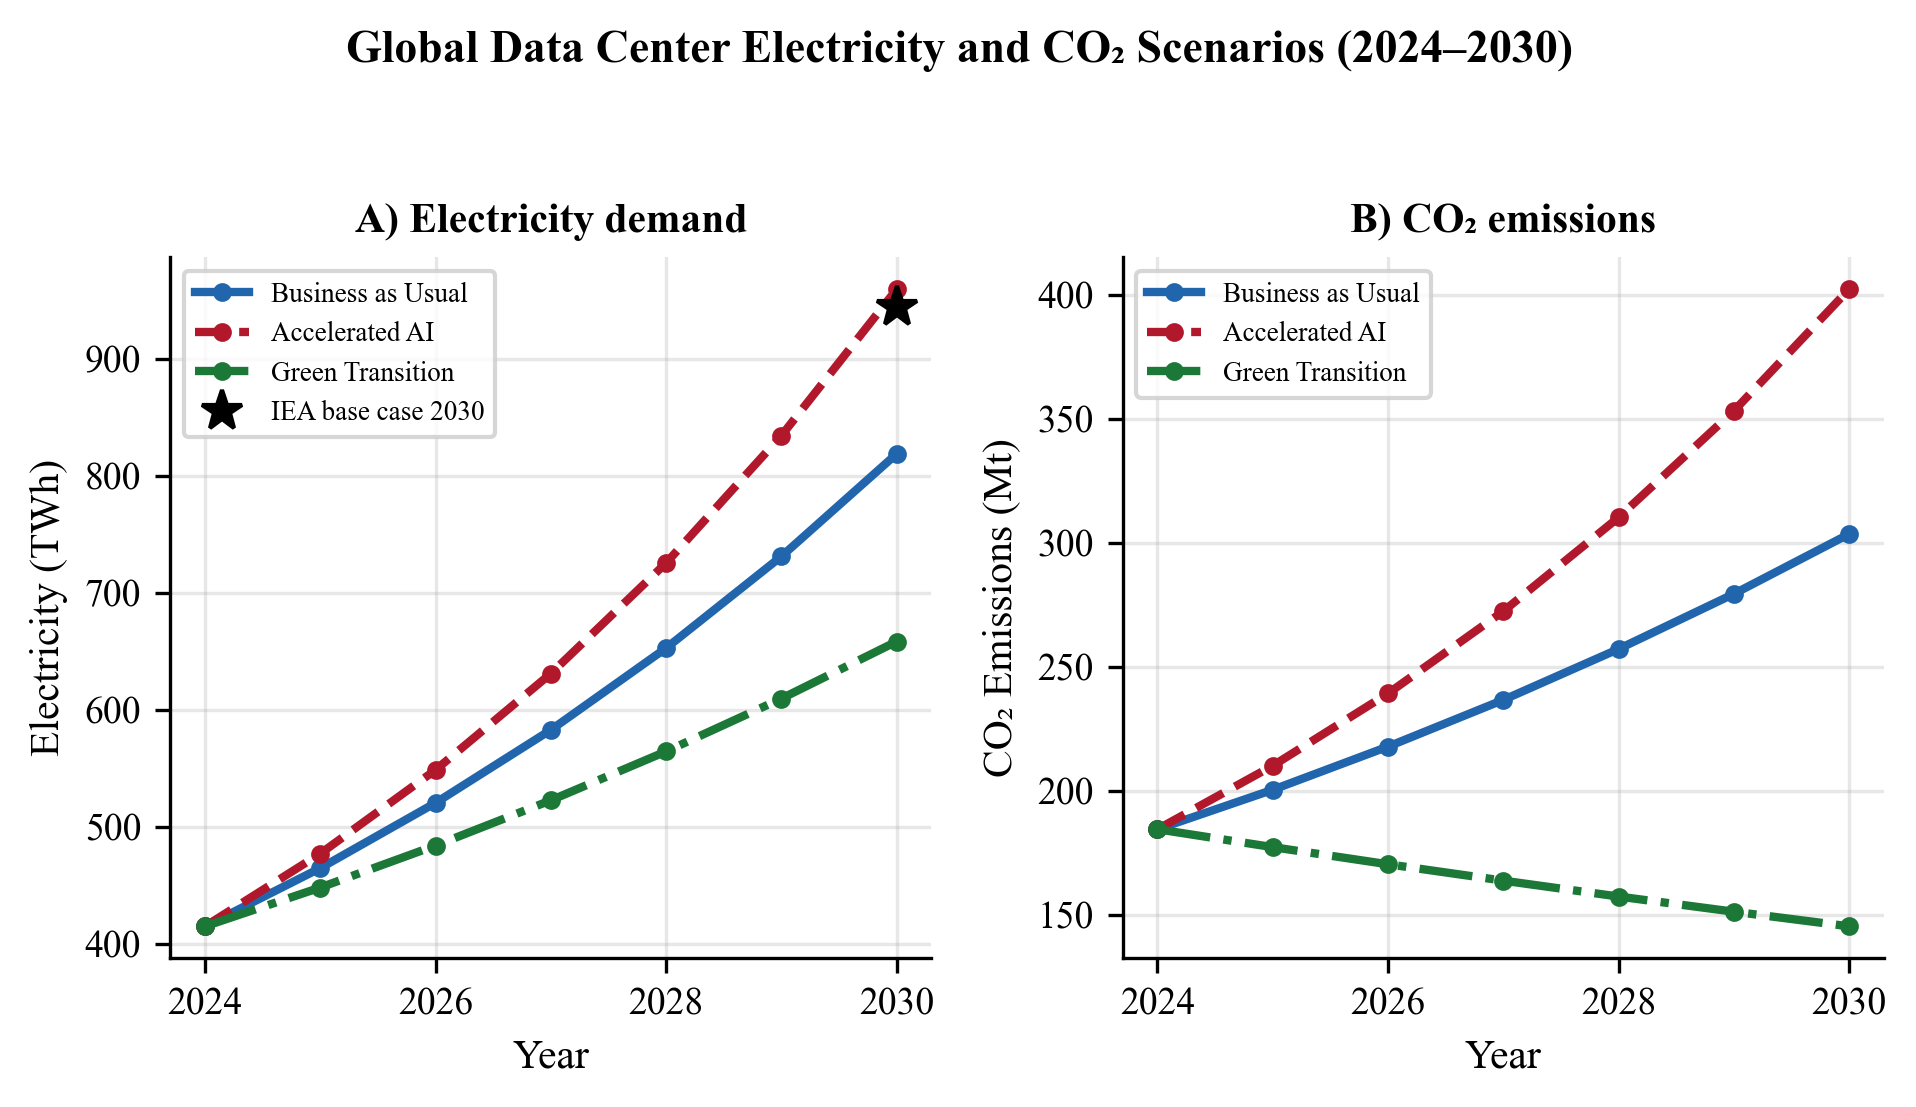
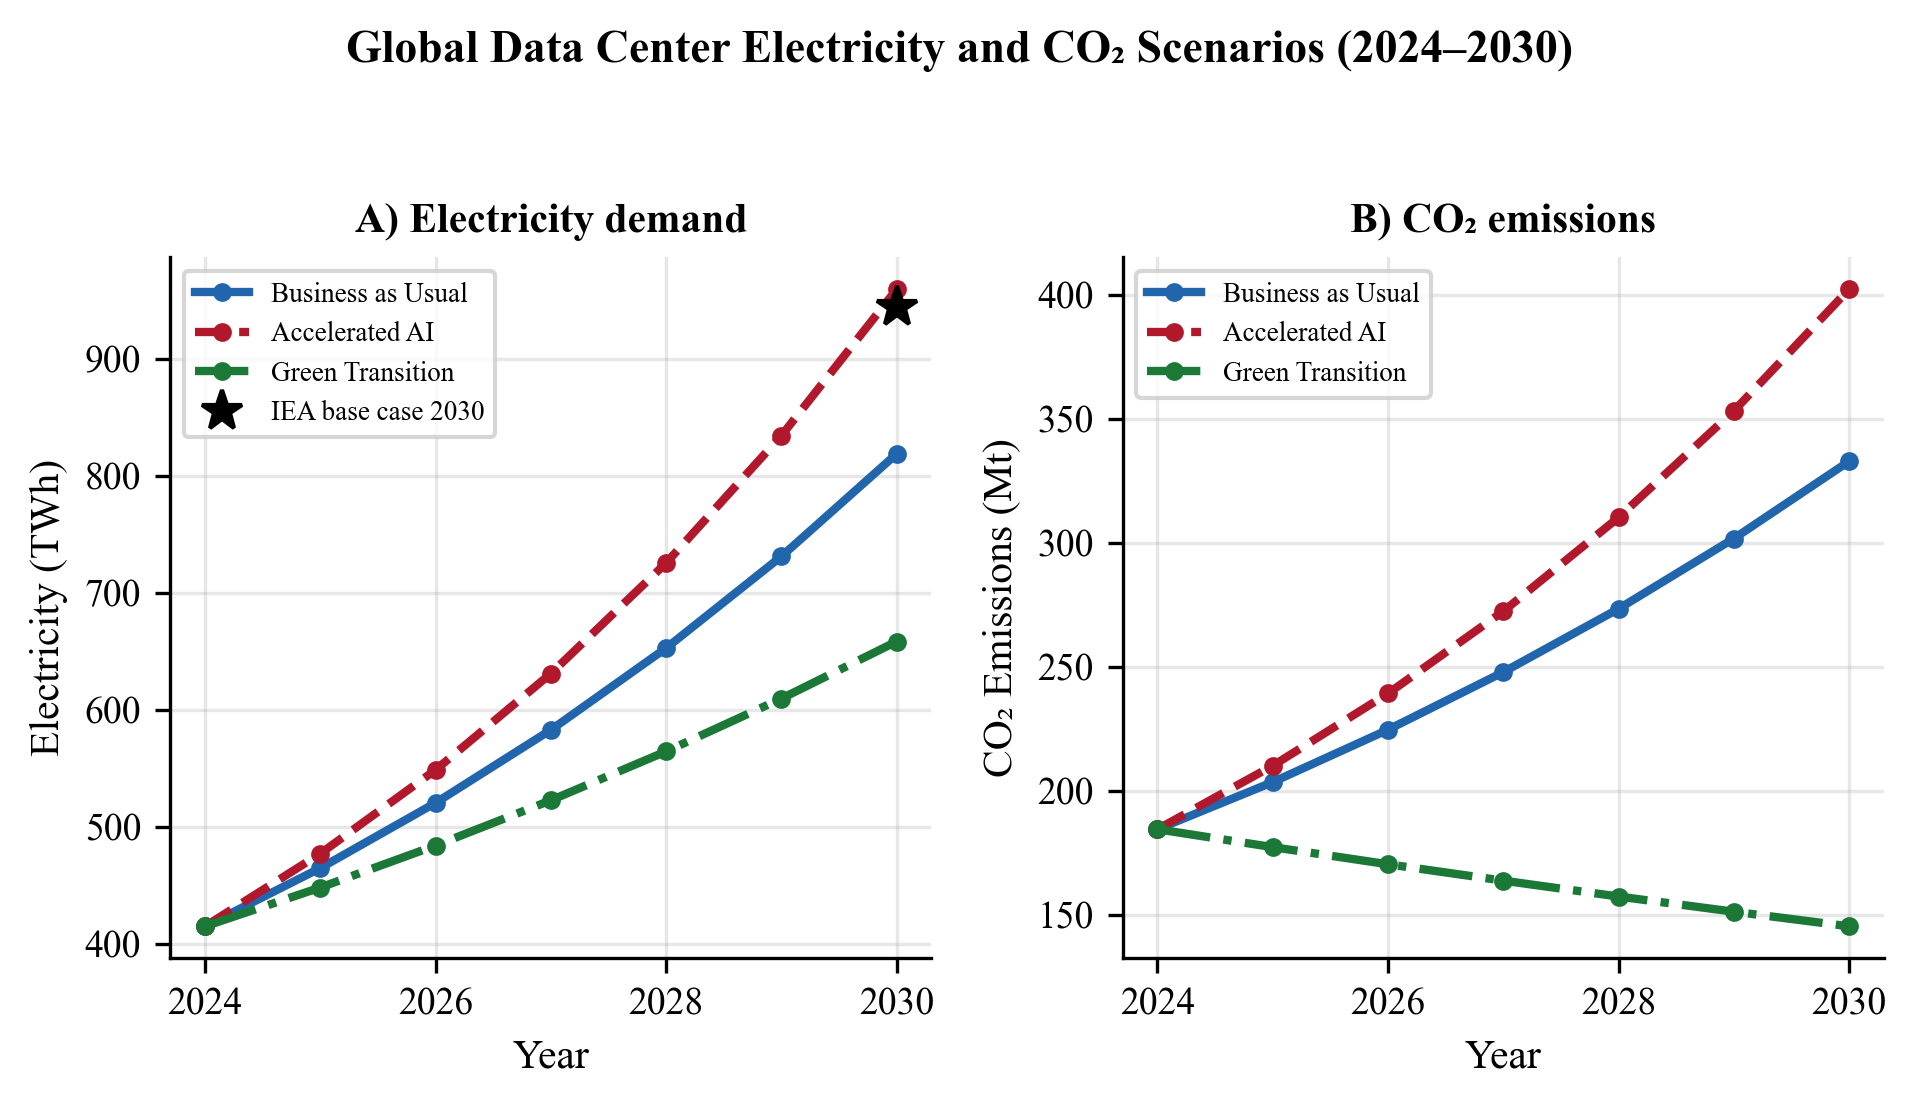
Business as Usual: use historical grid decarbonization rate (1.5%/yr)
Set the BAU emission-factor decline to the 2015-2025 decline in world grid
carbon intensity (Ember via Our World in Data, 533 -> 458 g/kWh, 1.51%/yr).
Add the data file, compute the benchmark in 03_projections.py, and write a
scenario assumptions table. BAU 2030 emissions: 304 -> 333 Mt CO2.

diff --git a/03_projections.py b/03_projections.py
@@ -27,8 +27,17 @@ sys.path.insert(0, os.path.dirname(__file__))
 from config import (
     MERGED_CSV, RESULTS_FILE, TABLE_DIR, BASE_YEAR, END_YEAR, BASE_TWH, BASE_EMISSION_FACTOR,
     IEA_BASE_CASE_2030_TWH, SCENARIOS, SENS_BASE_EF, SENS_GROWTH_DELTA,
-    US_GRID_EMISSION_FACTOR, ensure_dirs,
+    US_GRID_EMISSION_FACTOR, HIST_GRID_FILE, HIST_START, HIST_END, ensure_dirs,
 )
+
+
+def historical_decline():
+    """Compound annual change in world grid carbon intensity between HIST_START and HIST_END."""
+    h = pd.read_csv(HIST_GRID_FILE).set_index("year").iloc[:, 0]
+    a, b = h.loc[HIST_START], h.loc[HIST_END]
+    rate = 1 - (b / a) ** (1 / (HIST_END - HIST_START))
+    return {"start_year": HIST_START, "end_year": HIST_END, "start_g_per_kwh": float(a),
+            "end_g_per_kwh": float(b), "annual_decline": round(float(rate), 4)}
 
 
 def project(growth, ef_decline, base_twh=BASE_TWH, base_ef=BASE_EMISSION_FACTOR):
@@ -51,6 +60,10 @@ def main():
     print(f"2024 baseline: {BASE_TWH} TWh x {BASE_EMISSION_FACTOR} kg/kWh = {base_co2:.1f} Mt CO2")
     iea_cagr = (IEA_BASE_CASE_2030_TWH / BASE_TWH) ** (1 / (END_YEAR - BASE_YEAR)) - 1
     print(f"Growth rate implied by the IEA base case ({IEA_BASE_CASE_2030_TWH} TWh in 2030): {iea_cagr:.1%}/yr")
+    hist = historical_decline()
+    print(f"World grid carbon intensity {HIST_START}-{HIST_END}: {hist['start_g_per_kwh']:.0f} -> "
+          f"{hist['end_g_per_kwh']:.0f} g/kWh, {hist['annual_decline']:.2%}/yr decline "
+          f"(Business as Usual uses {SCENARIOS['business_as_usual']['ef_decline']:.1%})")
 
     tables, projections = [], {}
     for key, s in SCENARIOS.items():
@@ -69,12 +82,23 @@ def main():
             "ef_2030_reduction_vs_2024_pct": round(100 * (1 - last["ef_kg_per_kwh"] / BASE_EMISSION_FACTOR), 1),
             "co2_2030_change_vs_2024_pct": round(100 * (last["co2_mt"] / base_co2 - 1), 1),
         }
-        print(f"\n  {s['label']} (growth {s['growth']:.0%}/yr, EF decline {s['ef_decline']:.0%}/yr)")
+        print(f"\n  {s['label']} (growth {s['growth']:.0%}/yr, EF decline {s['ef_decline']:.1%}/yr)")
         for _, r in p.iterrows():
             print(f"    {int(r.year)}: {r.twh:7.1f} TWh  x {r.ef_kg_per_kwh:.4f} kg/kWh = {r.co2_mt:6.1f} Mt CO2")
 
     by_year = pd.concat(tables)
     by_year.round(4).to_csv(os.path.join(TABLE_DIR, "projections_by_year.csv"), index=False)
+
+    # Scenario assumptions table (paper Table 1)
+    assumptions = pd.DataFrame([{
+        "scenario": s["label"], "assumption": s["description"],
+        "growth_pct_per_yr": round(100 * s["growth"], 1), "ef_decline_pct_per_yr": round(100 * s["ef_decline"], 1),
+        "ef_2030_kg_per_kwh": round(projections[k]["ef_kg_per_kwh"][-1], 3),
+        "twh_2030": round(projections[k]["twh"][-1]), "co2_2030_mt": round(projections[k]["co2_mt"][-1]),
+    } for k, s in SCENARIOS.items()])
+    assumptions.to_csv(os.path.join(TABLE_DIR, "scenario_assumptions.csv"), index=False)
+    print("\nScenario assumptions:")
+    print(assumptions.to_string(index=False))
 
     # Sensitivity of 2030 emissions to the baseline EF and growth rate
     sens = []
@@ -104,6 +128,7 @@ def main():
     with open(RESULTS_FILE) as f:
         results = json.load(f)
     results["projections"] = projections
+    results["historical_grid_intensity"] = hist
     results["projection_baseline"] = {
         "base_year": BASE_YEAR, "base_twh": BASE_TWH, "base_ef_kg_per_kwh": BASE_EMISSION_FACTOR,
         "base_co2_mt": round(base_co2, 1),

diff --git a/config.py b/config.py
@@ -65,19 +65,26 @@ IEA_BASE_CASE_2030_TWH = 945
 
 # Each scenario = annual electricity growth rate + annual decline rate of the grid
 # emission factor. EF(t) = EF_2024 * (1 - decline) ** (t - 2024).
+# Historical benchmark for the decline rate: world lifecycle carbon intensity of electricity
+# (Ember, via Our World in Data), compound annual change between these years.
+HIST_GRID_FILE = os.path.join(DATA_DIR, "world_grid_carbon_intensity_ember.csv")
+HIST_START, HIST_END = 2015, 2025
 SCENARIOS = {
     "business_as_usual": {
         "label": "Business as Usual",
-        "growth": 0.12,          # recent historical growth (IEA: ~12%/yr since 2017)
-        "ef_decline": 0.03,      # grid decarbonizes at ~3%/yr
+        "description": "Recent trends continue",
+        "growth": 0.12,          # recent historical growth (IEA: ~12%/yr over the last five years)
+        "ef_decline": 0.015,     # historical decline of world grid intensity, 2015-2025 (~1.5%/yr)
     },
     "accelerated_ai": {
         "label": "Accelerated AI",
-        "growth": 0.15,          # close to the growth implied by the IEA base case
-        "ef_decline": 0.01,      # extra demand partly met by fossil generation
+        "description": "AI drives faster growth; part of new demand met by fossil generation",
+        "growth": 0.15,          # IEA base case (~15%/yr, 415 -> ~945 TWh)
+        "ef_decline": 0.01,      # slower than the historical decline
     },
     "green_transition": {
         "label": "Green Transition",
+        "description": "Efficiency slows growth; rapid renewable expansion",
         "growth": 0.08,          # efficiency gains slow demand growth
         "ef_decline": 0.11,      # rapid renewable build-out; EF reaches ~0.22 by 2030
     },

diff --git a/README.md b/README.md
@@ -20,7 +20,7 @@ Download the two Parquet files from https://data.openei.org/submissions/8616 and
 | `esif.influx.buildingData.PUE.combined.parquet` | `data/esif_pue_raw.parquet` |
 | `esif.influx.buildingData.outside.combined_2.parquet` | `data/esif_weather_raw.parquet` |
 
-The raw files (~170 MB) are not committed. The cleaned hourly file `esif_hourly_merged.csv` is committed, so `02`–`04` can run without them.
+The raw files (~170 MB) are not committed. `data/world_grid_carbon_intensity_ember.csv` is the world lifecycle carbon intensity of electricity (Ember, via Our World in Data, https://ourworldindata.org/grapher/carbon-intensity-electricity), used as the historical benchmark for the Business as Usual scenario. The cleaned hourly file `esif_hourly_merged.csv` is committed, so `02`–`04` can run without them.
 
 ## Pipeline
 
@@ -38,7 +38,7 @@ Outputs: `output/results.json`, `output/tables/*.csv`, `output/figures/*.png`.
 | Reviewer comment | Change |
 |---|---|
 | Two 2024 baselines (415 vs 460 TWh) | One baseline: 415 TWh × 0.445 kg/kWh ≈ 185 Mt. The old code used 0.49 kg/kWh even though the paper stated 0.445. |
-| Emission-factor path not given | `EF(t) = 0.445 × (1 − d)^(t−2024)` with *d* = 3%, 1% and 11%/yr. Year-by-year values are in `projections_by_year.csv`. |
+| Emission-factor path not given | `EF(t) = 0.445 × (1 − d)^(t−2024)` with *d* = 1.5% (Business as Usual, equal to the 2015–2025 decline in world grid carbon intensity from Ember data in `data/world_grid_carbon_intensity_ember.csv`), 1% (Accelerated AI) and 11%/yr (Green Transition). Year-by-year values are in `projections_by_year.csv`; scenario assumptions in `scenario_assumptions.csv`. |
 | Meaning of "55%" | The reduction in grid intensity is now calculated and reported against 2024 (`ef_2030_reduction_vs_2024_pct`). |
 | Random 80/20 split on time series | Adds a chronological 80/20 split and rolling-origin validation by year (2019–2025). The random split is kept only for comparison. |
 | Feature-importance robustness | Impurity and permutation importance, mean ± SD across rolling folds and 10 repeated random splits. |
